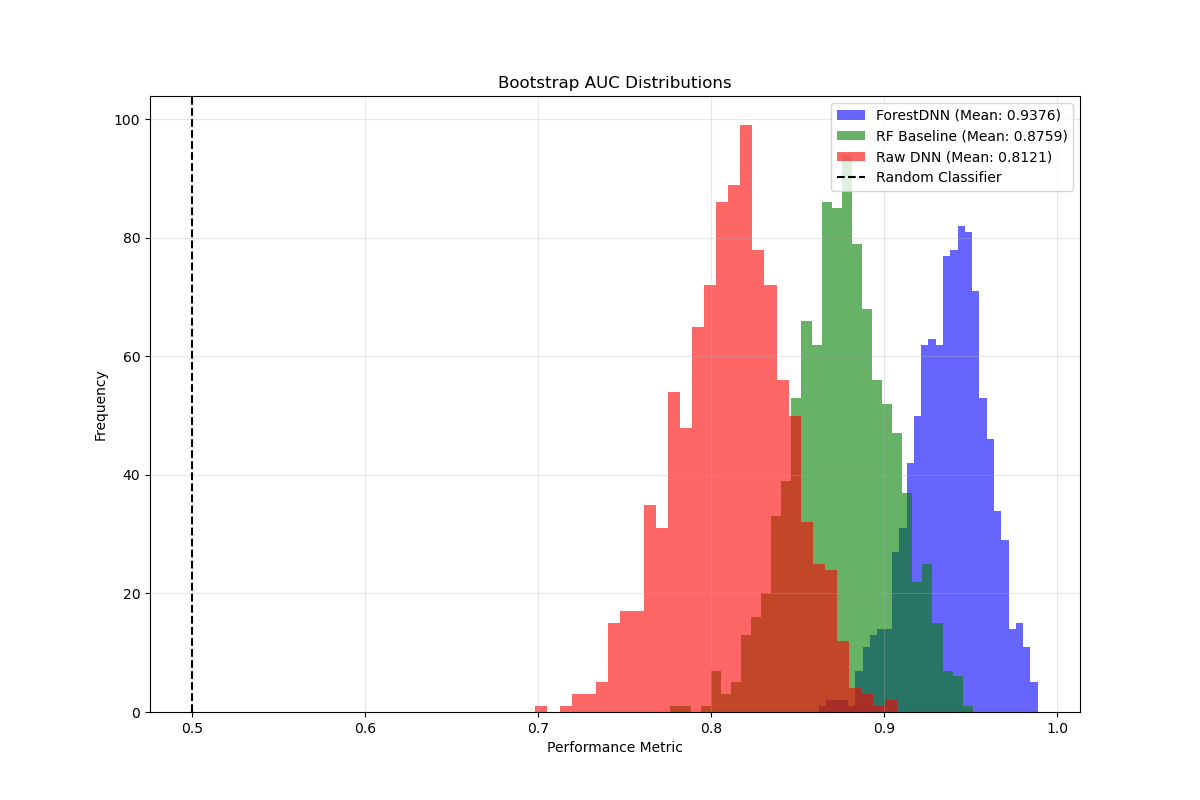
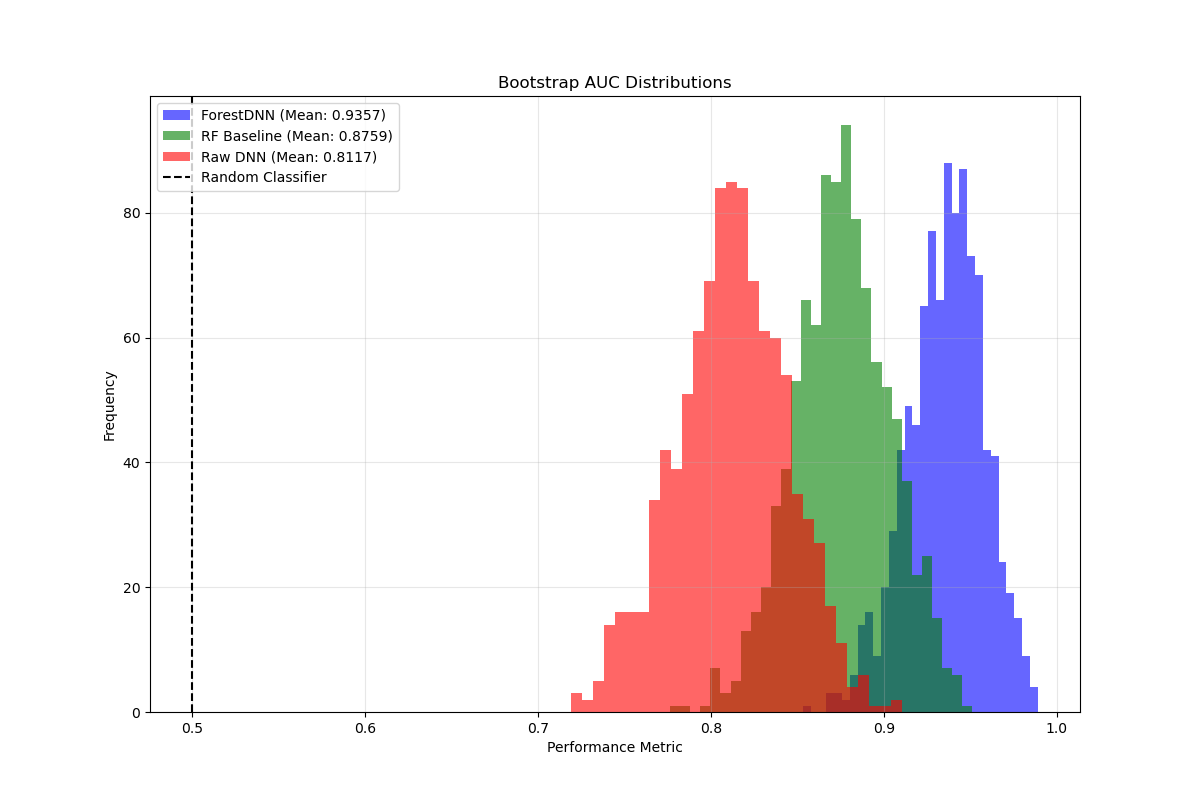
Update

diff --git a/main.py b/main.py
@@ -410,7 +410,7 @@ def main():
         X_val_transformed, 
         y_val, 
         batch_size=8, 
-        epochs=100
+        epochs=110
     )
     
     # Visualize ForestDNN loss
@@ -438,7 +438,7 @@ def main():
         dropout_prob=0.3
     ).to(device)
     
-    optimizer_raw = optim.Adam(raw_dnn.parameters(), lr=1e-4, weight_decay=1e-4)
+    optimizer_raw = optim.Adam(raw_dnn.parameters(), lr=1e-5, weight_decay=1e-4)
     
     loss_history_raw = trainer.train_dnn(
         raw_dnn, 
@@ -448,7 +448,7 @@ def main():
         X_val, 
         y_val, 
         batch_size=8, 
-        epochs=100
+        epochs=200
     )
     
     # Visualize Raw DNN loss
